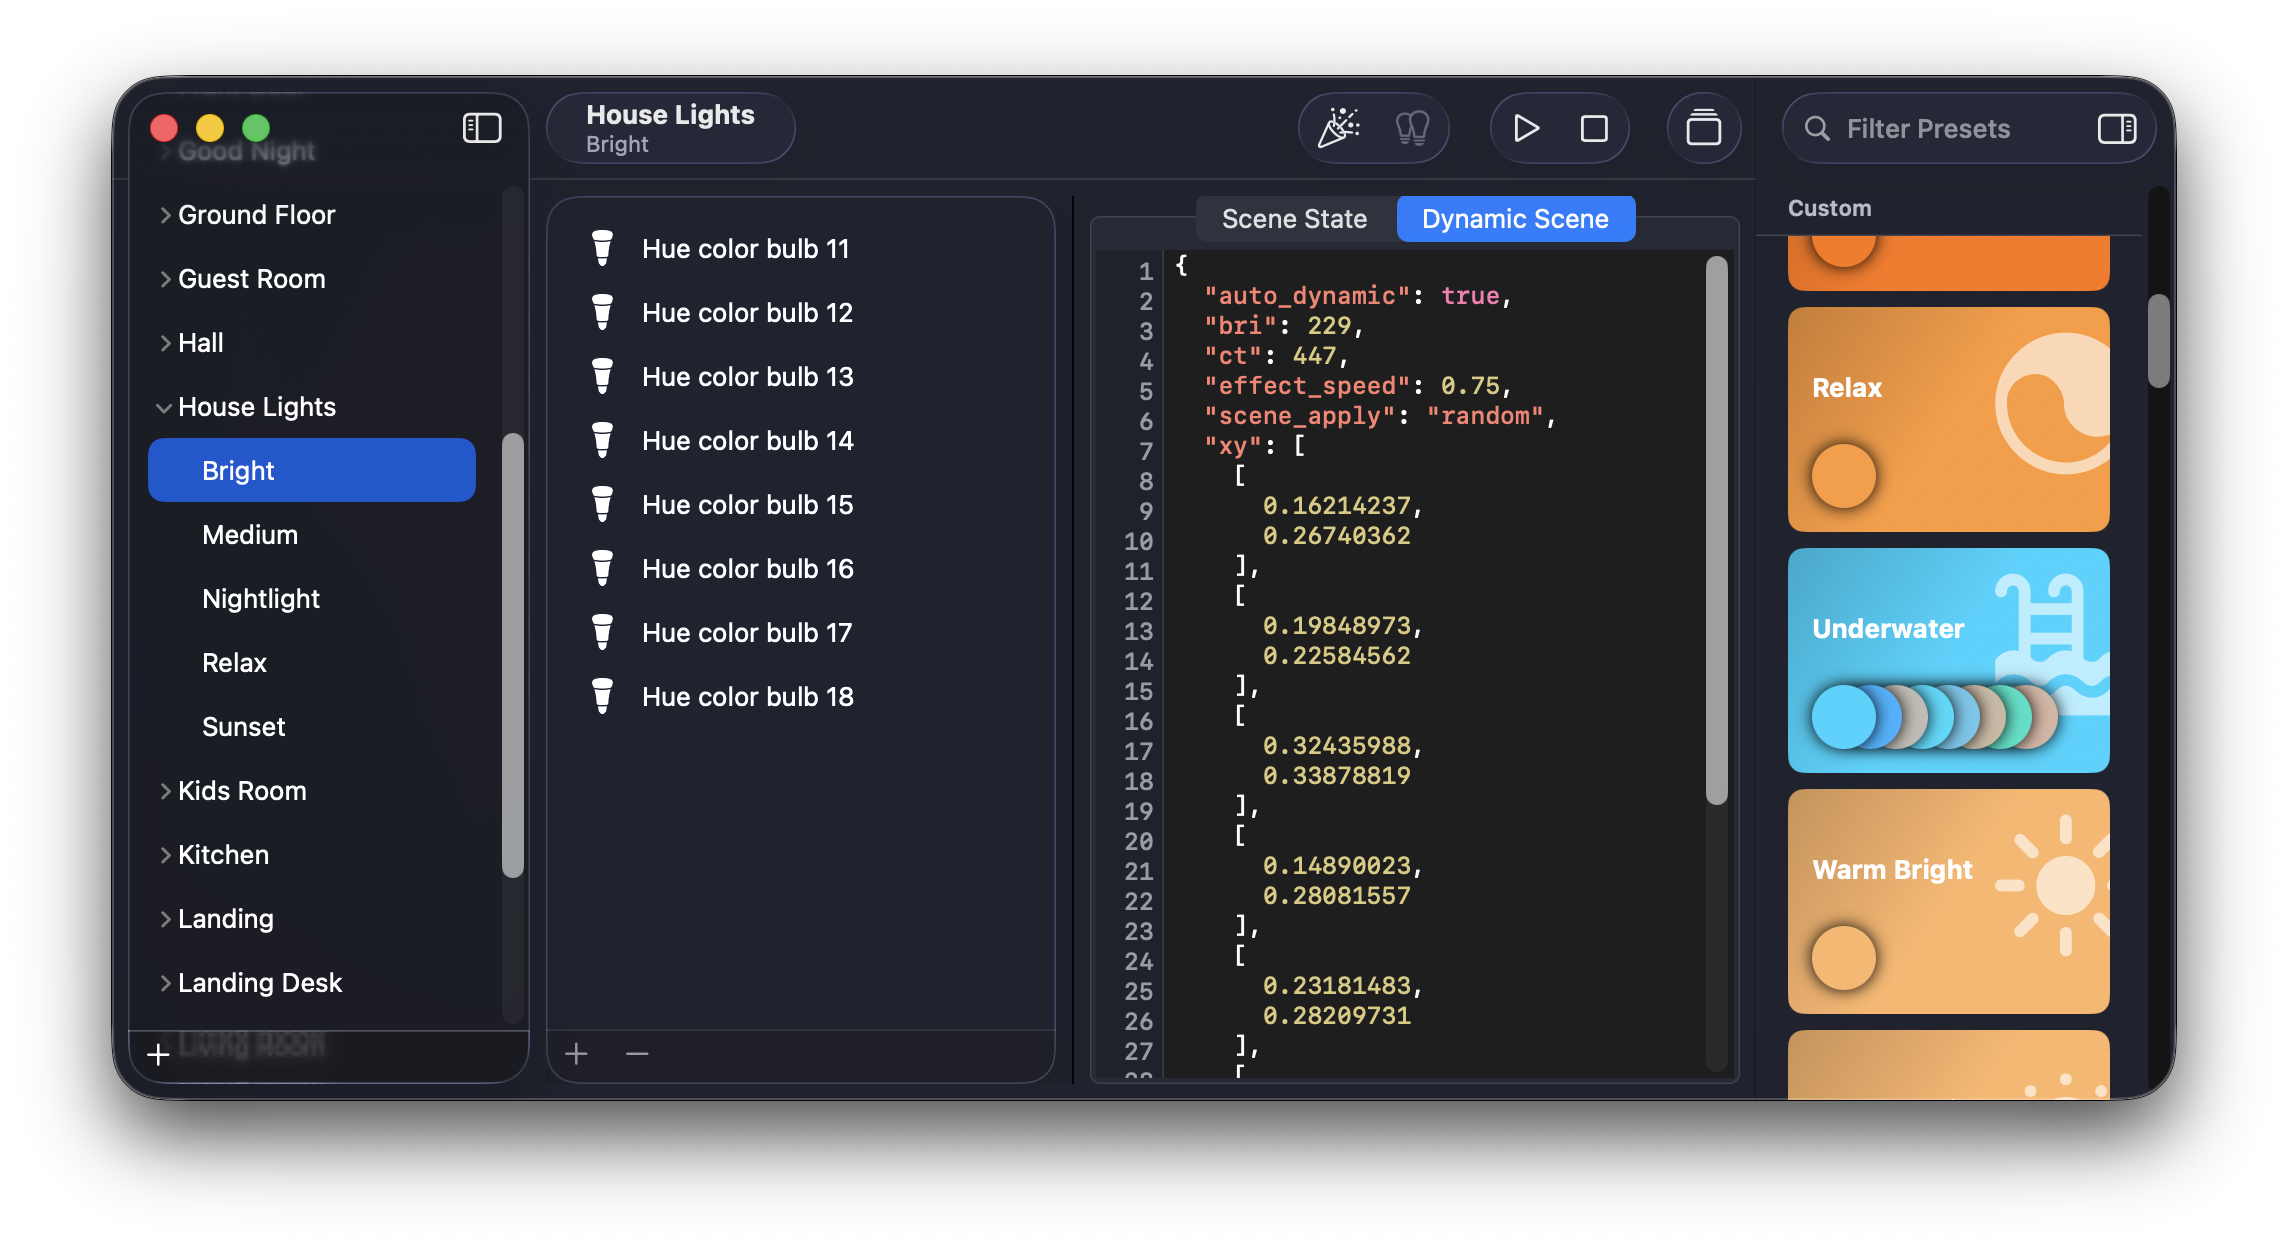
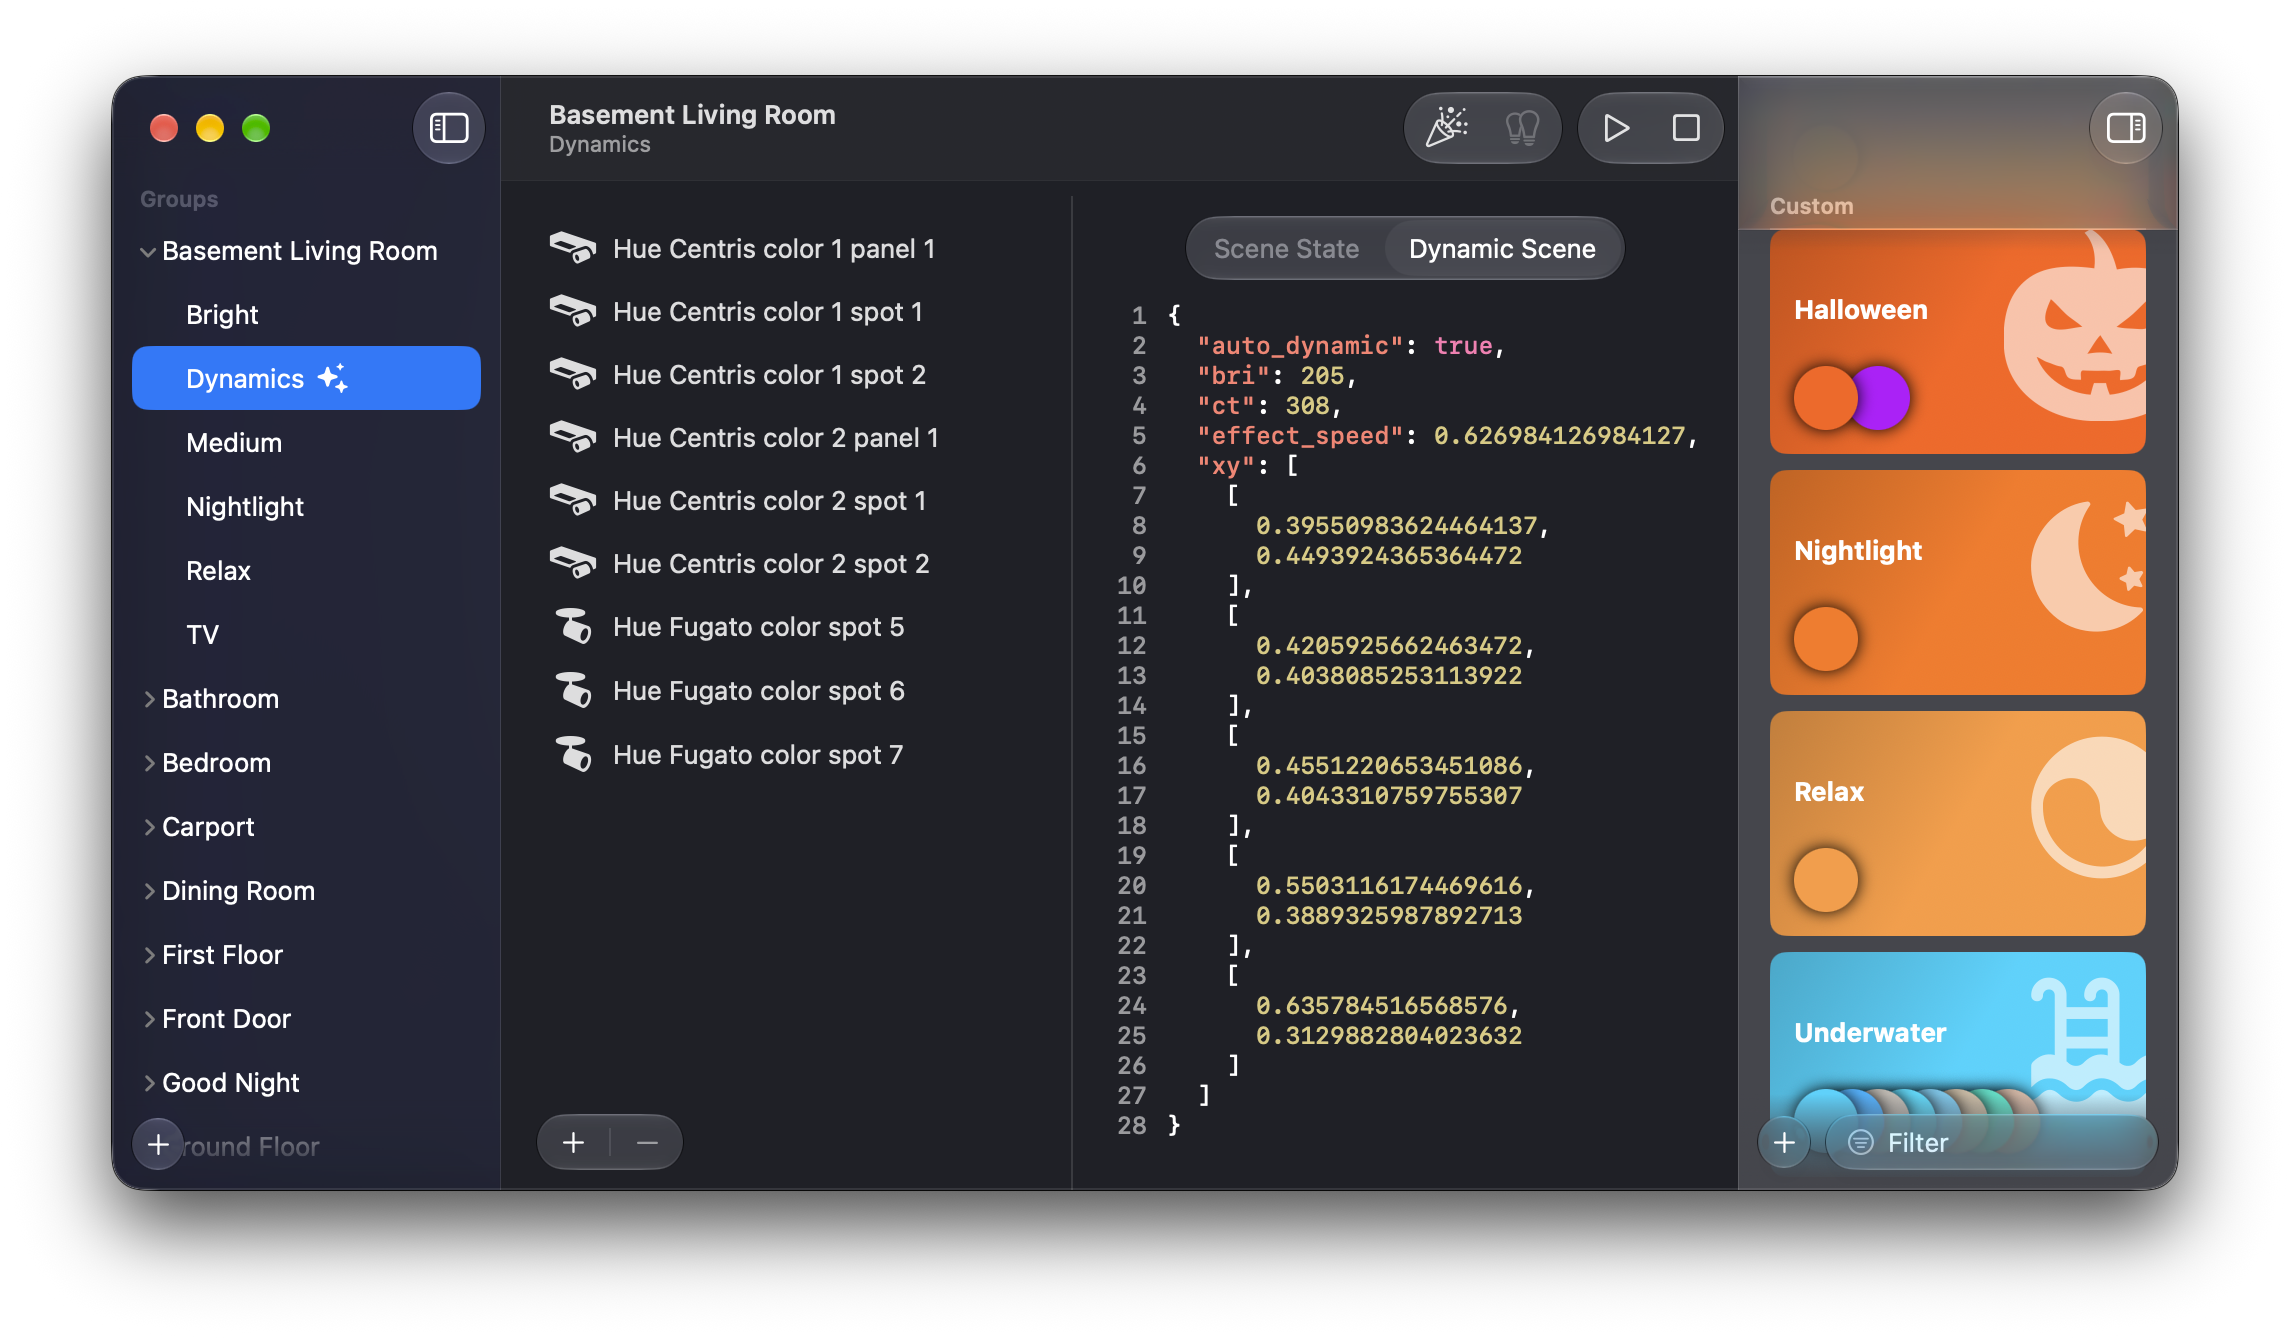
Fix Release build for macOS 27

Changed region(s): [[0.031, 0.0312, 0.962, 0.9062]]

diff --git a/SceneManager/Lights.swift b/SceneManager/Lights.swift
@@ -443,7 +443,7 @@ struct AddLightView: View {
 }
 
 // MARK: - Previews
-
+#if DEBUG
 #Preview("LightView") {
     let contentURL = Bundle.main.url(forResource: "Lights", withExtension: "json")
     let contentData = try! Data(contentsOf: contentURL!)
@@ -462,3 +462,5 @@ struct AddLightView: View {
     return AddLightView(lightItems: [])
         .frame(width: 250, height: 420, alignment: .center)
 }
+#endif
+

diff --git a/SceneManager/Sidebar.swift b/SceneManager/Sidebar.swift
@@ -380,7 +380,7 @@ struct SidebarItemView: View {
 }
 
 // MARK: - Preview
-
+#if DEBUG
 #Preview("Sidebar") {
     let contentURL = Bundle.main.url(forResource: "Sidebar", withExtension: "json")
     let contentData = try! Data(contentsOf: contentURL!)
@@ -392,3 +392,4 @@ struct SidebarItemView: View {
         .environment(sidebar)
         .environment(window)
 }
+#endif

diff --git a/SceneManager/Presets.swift b/SceneManager/Presets.swift
@@ -777,7 +777,7 @@ struct AddPresetView: View {
 }
 
 // MARK: - Previews
-
+#if DEBUG
 #Preview("Presets") {
     let contentURL = Bundle.main.url(forResource: "Presets", withExtension: "json")
     let contentData = try! Data(contentsOf: contentURL!)
@@ -791,3 +791,5 @@ struct AddPresetView: View {
         .environment(window)
         .environment(sidebar)
 }
+#endif
+

diff --git a/README.md b/README.md
@@ -24,7 +24,7 @@ where needed.
 ## Requirements
 
 Besides easing the administrative burden of managing Scenes, a secondary goal for this project was to
-familiarize myself with SwiftUI and Swift Concurrency. Scene Manager requires at least macOS 26 to run
+familiarize myself with SwiftUI and Swift Concurrency. Scene Manager requires at least macOS 27 to run
 and is currently built with Swift 6 and its strict concurrency model.
 
 Scene Manager also requires a recent version of the deCONZ REST API with a few additions that remain to
